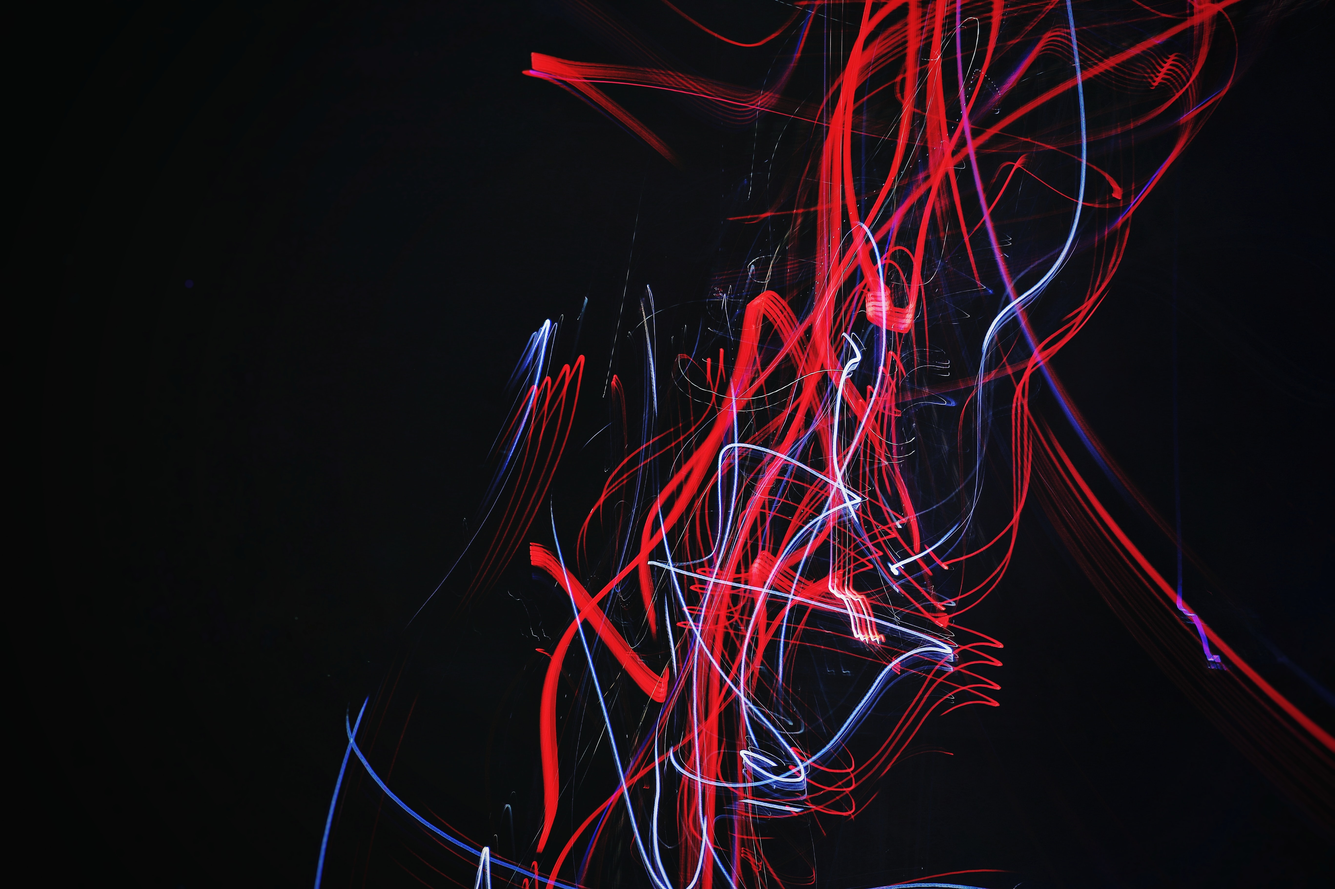
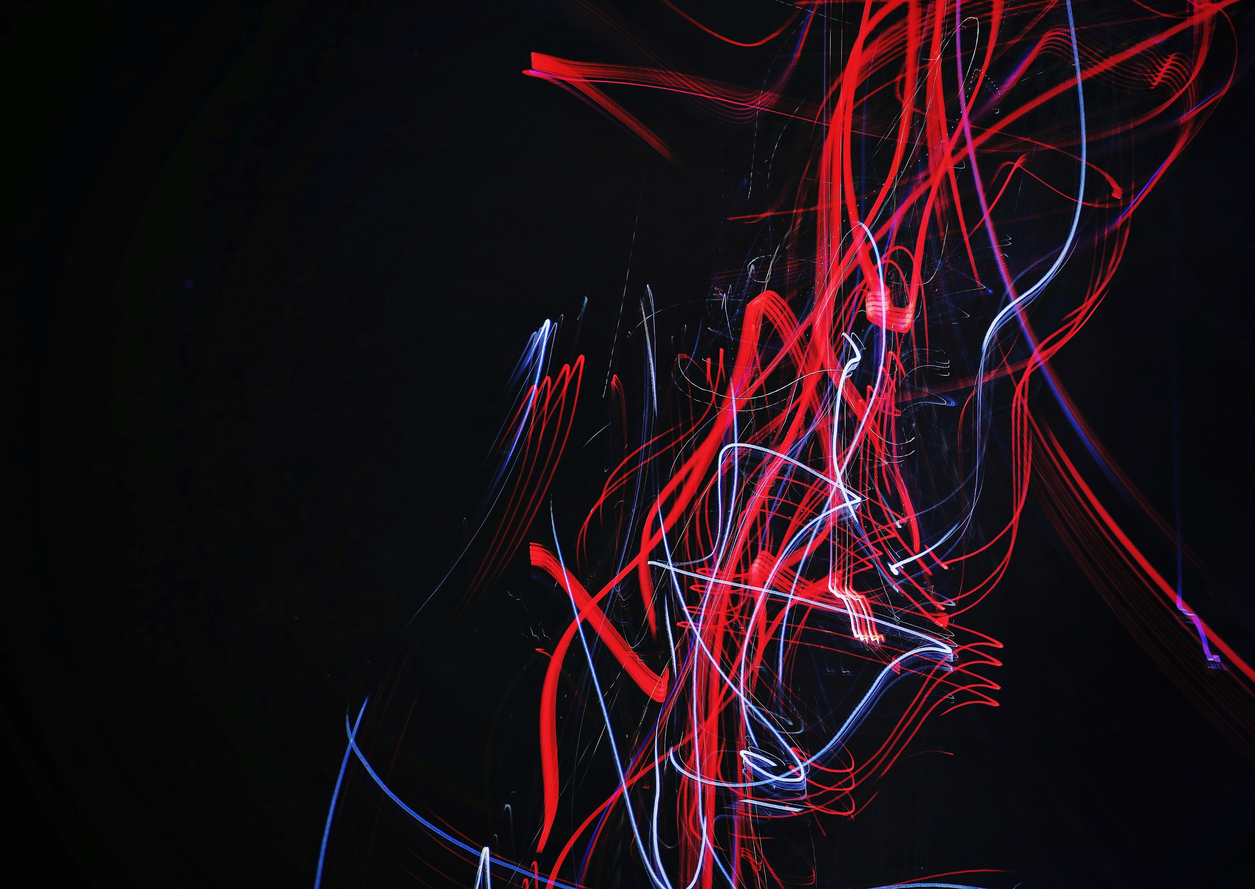
Responsiveness for larger screen

Changed region(s): [[0.2177, 0.0, 1.0, 1.0]]

diff --git a/styles.css b/styles.css
@@ -142,3 +142,53 @@ nav ul li a:hover {
 .active:hover {
     background: #4497FF;
 }
+
+@media only screen and (min-width: 700px) {
+    .left-col {
+        display: flex;
+    }
+    .content p {
+        width: 70%;
+    }
+    
+}
+
+@media only screen and (min-width: 1000px) {
+    nav {
+        position: unset;
+        transform: translateX(0) !important;
+        border-radius: unset;
+        border-top-left-radius: 13px;
+        border-bottom-left-radius: 13px;
+        height: 100%;
+    }
+    .menu-btn, .back-btn {
+        display: none;   
+    }
+    ul {
+        margin-top: 4em;
+    }
+    header {
+        padding: 1.6em;
+    }
+    .container {
+        display: flex;
+        padding: 2em;
+    }
+    .logo {
+        text-align: left;
+    }
+    section {
+        border-radius: unset;
+        border-top-right-radius: 13px;
+        border-bottom-right-radius: 13px;
+        width: 100%;
+        background-size: cover;
+        background-position: 0;
+        background-attachment: unset;
+    }
+    .content {
+        justify-self: left;
+        margin-left: 4em;
+    }
+}
